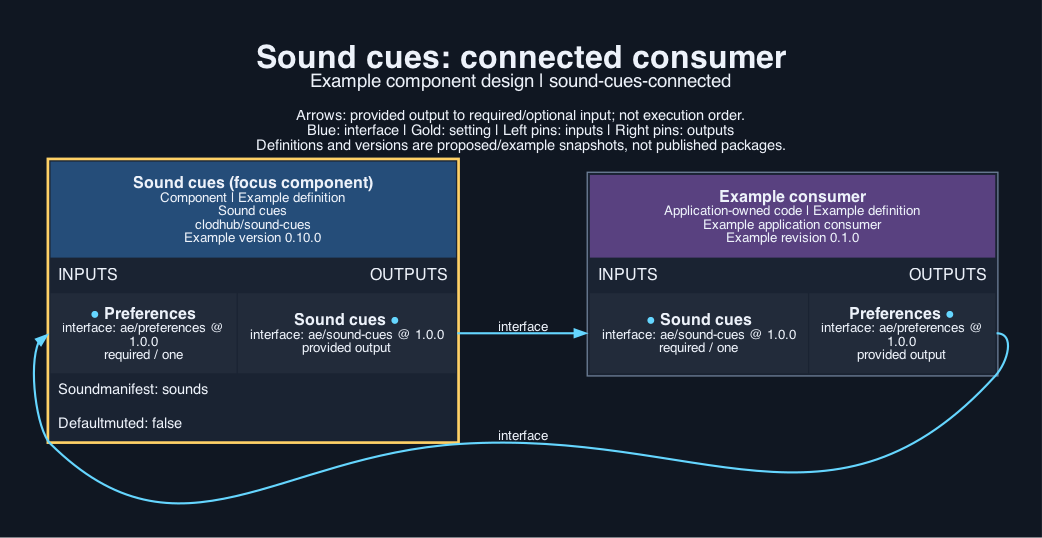
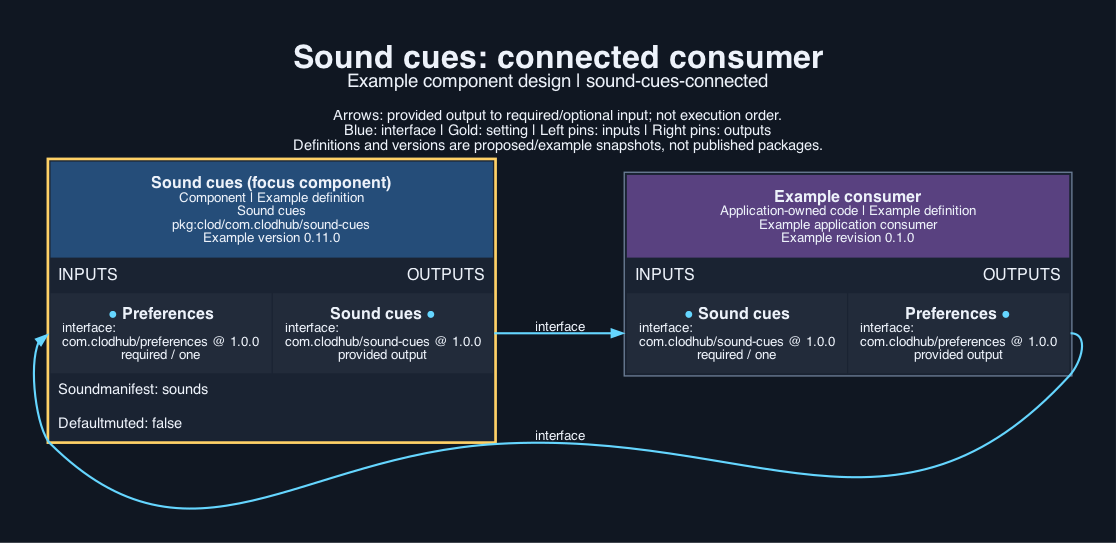
sound-cues 0.11.0: package URL names, clod, com.clodhub interface types and Kotlin packages; setting defaults as JSON values

diff --git a/implementation/android/src/main/java/com/clodhub/sound/CueModel.kt b/implementation/android/src/main/java/com/clodhub/sound/CueModel.kt
@@ -1,4 +1,4 @@
-package ae.sound
+package com.clodhub.sound
 
 // Sounds for events, as data: a manifest names the sound files (cues) and says which cues an event
 // plays and when. The sound files and the event names belong to the application; nothing here
@@ -13,7 +13,7 @@ object CueModel {
     const val DEFAULT_MANIFEST = "sounds"
     private val NAME = Regex("^[a-z][a-z0-9_-]{0,47}$")
 
-    // The setting is the folder name (letters, digits and hyphens; an aepm string setting cannot hold
+    // The setting is the folder name (letters, digits and hyphens; a clod string setting cannot hold
     // a slash or a dot); the manifest is that folder's manifest.json.
     fun manifestPath(soundManifest: String): String {
         require(Regex("^[a-z][a-z0-9-]{0,63}$").matches(soundManifest)) { "soundManifest must be a folder name of lower-case letters, digits and hyphens: $soundManifest" }

diff --git a/tests/web.test.ts b/tests/web.test.ts
@@ -238,7 +238,7 @@ test("a consumer clicks a button without a game", async () => {
 test("the OpenRPC interface describes the manifest, the settings and the exported functions", async () => {
   const doc = JSON.parse(readFileSync(new URL("../interfaces/sound-cues.json", import.meta.url), "utf8"));
   assert.equal(doc.openrpc, "1.3.2");
-  assert.deepEqual([doc.info.title, doc.info.version], ["ae/sound-cues", "1.0.0"]);
+  assert.deepEqual([doc.info.title, doc.info.version], ["com.clodhub/sound-cues", "1.0.0"]);
   const { Name, SoundFile, Manifest: shape, SoundSettings } = doc.components.schemas;
   const name = new RegExp(Name.pattern), file = new RegExp(SoundFile.pattern);
   for (const n of [...Object.keys(manifest.cues), ...Object.keys(manifest.events ?? {})]) assert.match(n, name);

diff --git a/implementation/apple/Sources/SoundCueModel.swift b/implementation/apple/Sources/SoundCueModel.swift
@@ -27,7 +27,7 @@ enum SoundCueModel {
 
     private static func matches(_ pattern: String, _ s: String) -> Bool { s.range(of: pattern, options: .regularExpression) != nil }
 
-    // The setting is the folder name (letters, digits and hyphens; an aepm string setting cannot hold
+    // The setting is the folder name (letters, digits and hyphens; a clod string setting cannot hold
     // a slash or a dot); the manifest is that folder's manifest.json.
     static func manifestPath(_ soundManifest: String) throws -> String {
         guard matches("^[a-z][a-z0-9-]{0,63}$", soundManifest) else { throw SoundCueError.invalid(["soundManifest must be a folder name of lower-case letters, digits and hyphens: \(soundManifest)"]) }

diff --git a/implementation/web/cue-model.ts b/implementation/web/cue-model.ts
@@ -17,7 +17,7 @@ export const NAME = /^[a-z][a-z0-9_-]{0,47}$/;
 export const AUDIO_EXTENSIONS = ["wav", "mp3", "ogg", "m4a", "aac", "caf"];
 export const MANIFEST_FILE = "manifest.json";
 
-// The setting is the folder name (letters, digits and hyphens; an aepm string setting cannot hold a
+// The setting is the folder name (letters, digits and hyphens; a clod string setting cannot hold a
 // slash or a dot); the manifest is that folder's manifest.json.
 export function manifestPath(soundManifest: string): string {
   if (!/^[a-z][a-z0-9-]{0,63}$/.test(soundManifest)) throw new Error(`soundManifest must be a folder name of lower-case letters, digits and hyphens: ${soundManifest}`);

diff --git a/tests/android/Main.kt b/tests/android/Main.kt
@@ -1,4 +1,4 @@
-import ae.sound.*
+import com.clodhub.sound.*
 
 // Mirrors tests/apple/main.swift: plans and resource names are compared with rows the TypeScript produced (Expected.kt).
 fun check(condition: Boolean, message: String) { if (!condition) { System.err.println("FAIL: $message"); System.exit(1) } }

diff --git a/implementation/android/src/main/java/com/clodhub/sound/SoundCuePlayer.kt b/implementation/android/src/main/java/com/clodhub/sound/SoundCuePlayer.kt
@@ -1,4 +1,4 @@
-package ae.sound
+package com.clodhub.sound
 
 import android.content.Context
 import android.media.AudioAttributes

diff --git a/implementation/android/src/main/java/com/clodhub/sound/ManifestJson.kt b/implementation/android/src/main/java/com/clodhub/sound/ManifestJson.kt
@@ -1,4 +1,4 @@
-package ae.sound
+package com.clodhub.sound
 
 import org.json.JSONArray
 import org.json.JSONException

diff --git a/CONTRACT.md b/CONTRACT.md
@@ -6,17 +6,17 @@
 Facilities: `sound-cues` (Sound cues for events, a manifest of sounds, mute by the device's sound preference).
 
 ## User inputs
-`soundManifest`: the folder name that holds `manifest.json` and the sound files (lower-case letters, digits and hyphens; an aepm string setting cannot hold a slash or a dot, so it is a name not a path), default `sounds`. `defaultMuted`: whether sound starts muted when the device has no recorded preference, default false; give the preferences component `soundPreferenceDefault(defaultMuted)` as its default for `sound` so both agree. The manifest is `{ "format": 1, "cues": { "tap": "tap.wav" }, "events": { "button": ["tap"], "reveal": [{ "cue": "deal" }, { "cue": "flip", "delayMs": 300 }] } }`; files end in wav, mp3, ogg, m4a, aac or caf and are relative paths with no `..`.
+`soundManifest`: the folder name that holds `manifest.json` and the sound files (lower-case letters, digits and hyphens; a clod string setting cannot hold a slash or a dot, so it is a name not a path), default `sounds`. `defaultMuted`: whether sound starts muted when the device has no recorded preference, default false; give the preferences component `soundPreferenceDefault(defaultMuted)` as its default for `sound` so both agree. The manifest is `{ "format": 1, "cues": { "tap": "tap.wav" }, "events": { "button": ["tap"], "reveal": [{ "cue": "deal" }, { "cue": "flip", "delayMs": 300 }] } }`; files end in wav, mp3, ogg, m4a, aac or caf and are relative paths with no `..`.
 
 - `soundManifest` (string, slug; optional; default `sounds`)
-- `defaultMuted` (boolean; optional; default `False`)
+- `defaultMuted` (boolean; optional; default `false`)
 
 ## Artefacts and dependencies
 `component.json` maps every `implementation/` source into `components/sound-cues/`:
 
-- `implementation/android/src/main/java/ae/sound/CueModel.kt` -> `components/sound-cues/android/src/main/java/ae/sound/CueModel.kt`
-- `implementation/android/src/main/java/ae/sound/ManifestJson.kt` -> `components/sound-cues/android/src/main/java/ae/sound/ManifestJson.kt`
-- `implementation/android/src/main/java/ae/sound/SoundCuePlayer.kt` -> `components/sound-cues/android/src/main/java/ae/sound/SoundCuePlayer.kt`
+- `implementation/android/src/main/java/com/clodhub/sound/CueModel.kt` -> `components/sound-cues/android/src/main/java/com/clodhub/sound/CueModel.kt`
+- `implementation/android/src/main/java/com/clodhub/sound/ManifestJson.kt` -> `components/sound-cues/android/src/main/java/com/clodhub/sound/ManifestJson.kt`
+- `implementation/android/src/main/java/com/clodhub/sound/SoundCuePlayer.kt` -> `components/sound-cues/android/src/main/java/com/clodhub/sound/SoundCuePlayer.kt`
 - `implementation/apple/Sources/SoundCueModel.swift` -> `components/sound-cues/apple/Sources/SoundCueModel.swift`
 - `implementation/apple/Sources/SoundCuePlayer.swift` -> `components/sound-cues/apple/Sources/SoundCuePlayer.swift`
 - `implementation/web/cue-model.ts` -> `components/sound-cues/web/cue-model.ts`
@@ -26,10 +26,10 @@ Dependencies: none.
 `tools.lock.json` pins verification tools: node 26.5, python3 3.12, swiftc 6.4, xcrun 72, kotlinc 2.2, java 26.0. Licence wording remains deferred.
 
 ## Provided interfaces
-- `interfaces/sound-cues.json` defines `sound-cues` (ae/sound-cues) version 1.0.0 as an OpenRPC 1.3.2 document: one method per web function and per operation of the player `createCues` returns (`Cues.play` and so on), each description naming the Swift and Kotlin form or saying it is web only, with the sound manifest (`manifest.json`), cue steps and settings as JSON Schema 2020-12 under `components.schemas`. The preferences store, audio context and callbacks are described as host values, not serialised.
+- `interfaces/sound-cues.json` defines `sound-cues` (com.clodhub/sound-cues) version 1.0.0 as an OpenRPC 1.3.2 document: one method per web function and per operation of the player `createCues` returns (`Cues.play` and so on), each description naming the Swift and Kotlin form or saying it is web only, with the sound manifest (`manifest.json`), cue steps and settings as JSON Schema 2020-12 under `components.schemas`. The preferences store, audio context and callbacks are described as host values, not serialised.
 
 ## Required interfaces
-- `preferences` (ae/preferences) version 1.0.0, supplied by the recipe or application. Its interface document is a copy of the preferences component's document; sound-cues uses its `get`, `set` and `subscribe` for the `sound` value.
+- `preferences` (com.clodhub/preferences) version 1.0.0, supplied by the recipe or application. Its interface document is a copy of the preferences component's document; sound-cues uses its `get`, `set` and `subscribe` for the `sound` value.
 
 ## Integration
 Web: `createCues({ manifest, baseUrl: "./sounds", preferences, allowed })`, then `cues.unlockOn(document)` so the first tap unlocks sound, and `cues.emit("event")` wherever something happens; wire a sound toggle to `cues.setMuted`. `preferences` is the preferences component's store (only `get`, `set` and `subscribe` of `sound` are used); without it mute is kept in memory. Apple: parse the manifest with `SoundCueModel.parseManifest`, make a `SoundCuePlayer(manifest:locate:isMuted:allowed:)` where `locate` finds files in the bundle and `isMuted` reads `SoundCueModel.isMuted(sound:defaultMuted:)`; call `stopAll()` when sound is turned off. Android: `ManifestJson.parse` the manifest, package the files as raw resources named by `CueModel.rawResourceName` (tap.wav becomes `snd_tap`), make a `SoundCuePlayer(manifest, isMuted, allowed)` and call `init(context)`, `emit(event)`, and `stopAll()` when sound is turned off. Which events exist, the sounds themselves, call audio and the other players' voices stay with the recipe.

diff --git a/INSTRUCTIONS.md b/INSTRUCTIONS.md
@@ -1,14 +1,14 @@
 # Sound cues instructions
 
 ## For the agent
-Select `clodhub/sound-cues`; connect `preferences` to the preferences component's output. Set `soundManifest` to the folder the recipe's sound files and manifest live in, and `defaultMuted` only if the user wants sound off to begin with. The event names in the manifest come from the recipe; do not invent them here.
+Select `pkg:clod/com.clodhub/sound-cues`; connect `preferences` to the preferences component's output. Set `soundManifest` to the folder the recipe's sound files and manifest live in, and `defaultMuted` only if the user wants sound off to begin with. The event names in the manifest come from the recipe; do not invent them here.
 
-- Select package `clodhub/sound-cues` version `0.10.0`.
+- Select package `pkg:clod/com.clodhub/sound-cues` version `0.11.0`.
 - Settings to configure:
   - `soundManifest` (string, slug; optional; default `sounds`)
-  - `defaultMuted` (boolean; optional; default `False`)
-- Connect the provided `sound-cues` (ae/sound-cues 1.0.0, OpenRPC 1.3.2 document `interfaces/sound-cues.json`; its `Manifest` schema is the shape of `manifest.json`) to the consumer that needs it.
-- Supply `preferences` (ae/preferences 1.0.0) from the component that provides it.
+  - `defaultMuted` (boolean; optional; default `false`)
+- Connect the provided `sound-cues` (com.clodhub/sound-cues 1.0.0, OpenRPC 1.3.2 document `interfaces/sound-cues.json`; its `Manifest` schema is the shape of `manifest.json`) to the consumer that needs it.
+- Supply `preferences` (com.clodhub/preferences 1.0.0) from the component that provides it.
 - No accounts or keys are needed.
 
 ## For the developer
@@ -20,4 +20,4 @@ From the component directory:
 - `node --test tests/web.test.ts` (web, required-local; tools: node 26.5)
 - `python3 tests/native.py apple` (apple, platform; tools: python3 3.12, swiftc 6.4, xcrun 72)
 - `python3 tests/native.py android` (android, platform; tools: python3 3.12, kotlinc 2.2, java 26.0)
-- `python3 -m aepm review <digest> --store STORE --policy POLICY --trusted --allow-network` checks an archive fetched with `python3 -m aepm fetch clodhub/sound-cues@VERSION --store STORE --from https://clodhub.com` and runs its suites.
+- `python3 -m clod review <digest> --store STORE --policy POLICY --trusted --allow-network` checks an archive fetched with `python3 -m clod fetch sound-cues@VERSION --store STORE --from https://clodhub.com` and runs its suites.

diff --git a/SOURCE.md b/SOURCE.md
@@ -14,9 +14,9 @@ Reference revision: `19905b75dbea89fbfd424d67fe26c81aaed0e018`. Extracted from t
 
 ## Android
 
-- `implementation/android/src/main/java/ae/sound/CueModel.kt` <- new (`generated-platform`), matching the web and Apple models, over `android/app/src/main/java/app/ourapps/ourpoker/Sound.kt:13-18` (`SoundName` and its `R.raw.snd_*` names).
-- `implementation/android/src/main/java/ae/sound/ManifestJson.kt` <- new, reads the manifest with `org.json`.
-- `implementation/android/src/main/java/ae/sound/SoundCuePlayer.kt` <- `Sound.kt:20-42` (`Sound`: SoundPool with four streams, game usage attributes, delayed play on the main handler). Generalised: `SoundName(res)` enum became manifest cues resolved through `rawResourceName`; `enabled` became an `isMuted` callback; `stopAll` also cancels delayed cues (the recipe's did not). Left behind: `SoundSetting` (`Sound.kt:44-53`, kept by the preferences component).
+- `implementation/android/src/main/java/com/clodhub/sound/CueModel.kt` <- new (`generated-platform`), matching the web and Apple models, over `android/app/src/main/java/app/ourapps/ourpoker/Sound.kt:13-18` (`SoundName` and its `R.raw.snd_*` names).
+- `implementation/android/src/main/java/com/clodhub/sound/ManifestJson.kt` <- new, reads the manifest with `org.json`.
+- `implementation/android/src/main/java/com/clodhub/sound/SoundCuePlayer.kt` <- `Sound.kt:20-42` (`Sound`: SoundPool with four streams, game usage attributes, delayed play on the main handler). Generalised: `SoundName(res)` enum became manifest cues resolved through `rawResourceName`; `enabled` became an `isMuted` callback; `stopAll` also cancels delayed cues (the recipe's did not). Left behind: `SoundSetting` (`Sound.kt:44-53`, kept by the preferences component).
 
 ## Tests
 

diff --git a/.opencode/knowledge/00-index.md b/.opencode/knowledge/00-index.md
@@ -1,5 +1,5 @@
 # sound-cues ownership
 
 Repository: https://github.com/clodhub/sound-cues.git.
-Current code: `implementation/android/src/main/java/ae/sound/CueModel.kt`, `implementation/android/src/main/java/ae/sound/ManifestJson.kt`, `implementation/android/src/main/java/ae/sound/SoundCuePlayer.kt`, `implementation/apple/Sources/SoundCueModel.swift`, `implementation/apple/Sources/SoundCuePlayer.swift`, `implementation/web/cue-model.ts`, `implementation/web/cues.ts`.
+Current code: `implementation/android/src/main/java/com/clodhub/sound/CueModel.kt`, `implementation/android/src/main/java/com/clodhub/sound/ManifestJson.kt`, `implementation/android/src/main/java/com/clodhub/sound/SoundCuePlayer.kt`, `implementation/apple/Sources/SoundCueModel.swift`, `implementation/apple/Sources/SoundCuePlayer.swift`, `implementation/web/cue-model.ts`, `implementation/web/cues.ts`.
 `component.json`, `tools.lock.json` and `visual/` are generated from `authoring/spec.json`; edit the spec, not the generated files. `CONTRACT.md`, `INSTRUCTIONS.md` and `SOURCE.md` are hand-written and kept on regeneration.

diff --git a/visual/output/description.md b/visual/output/description.md
@@ -1,3 +1,3 @@
 # Sound cues
 
-The sound-cues component at version 0.10.0 provides ae/sound-cues version 1.0.0 to an illustrative application consumer, which in turn supplies ae/preferences version 1.0.0. The 2 arrows each run from a named output to a required input of the same type and version. Setting values shown are placeholders and secrets appear only as references.
+The sound-cues component at version 0.11.0 provides com.clodhub/sound-cues version 1.0.0 to an illustrative application consumer, which in turn supplies com.clodhub/preferences version 1.0.0. The 2 arrows each run from a named output to a required input of the same type and version. Setting values shown are placeholders and secrets appear only as references.
